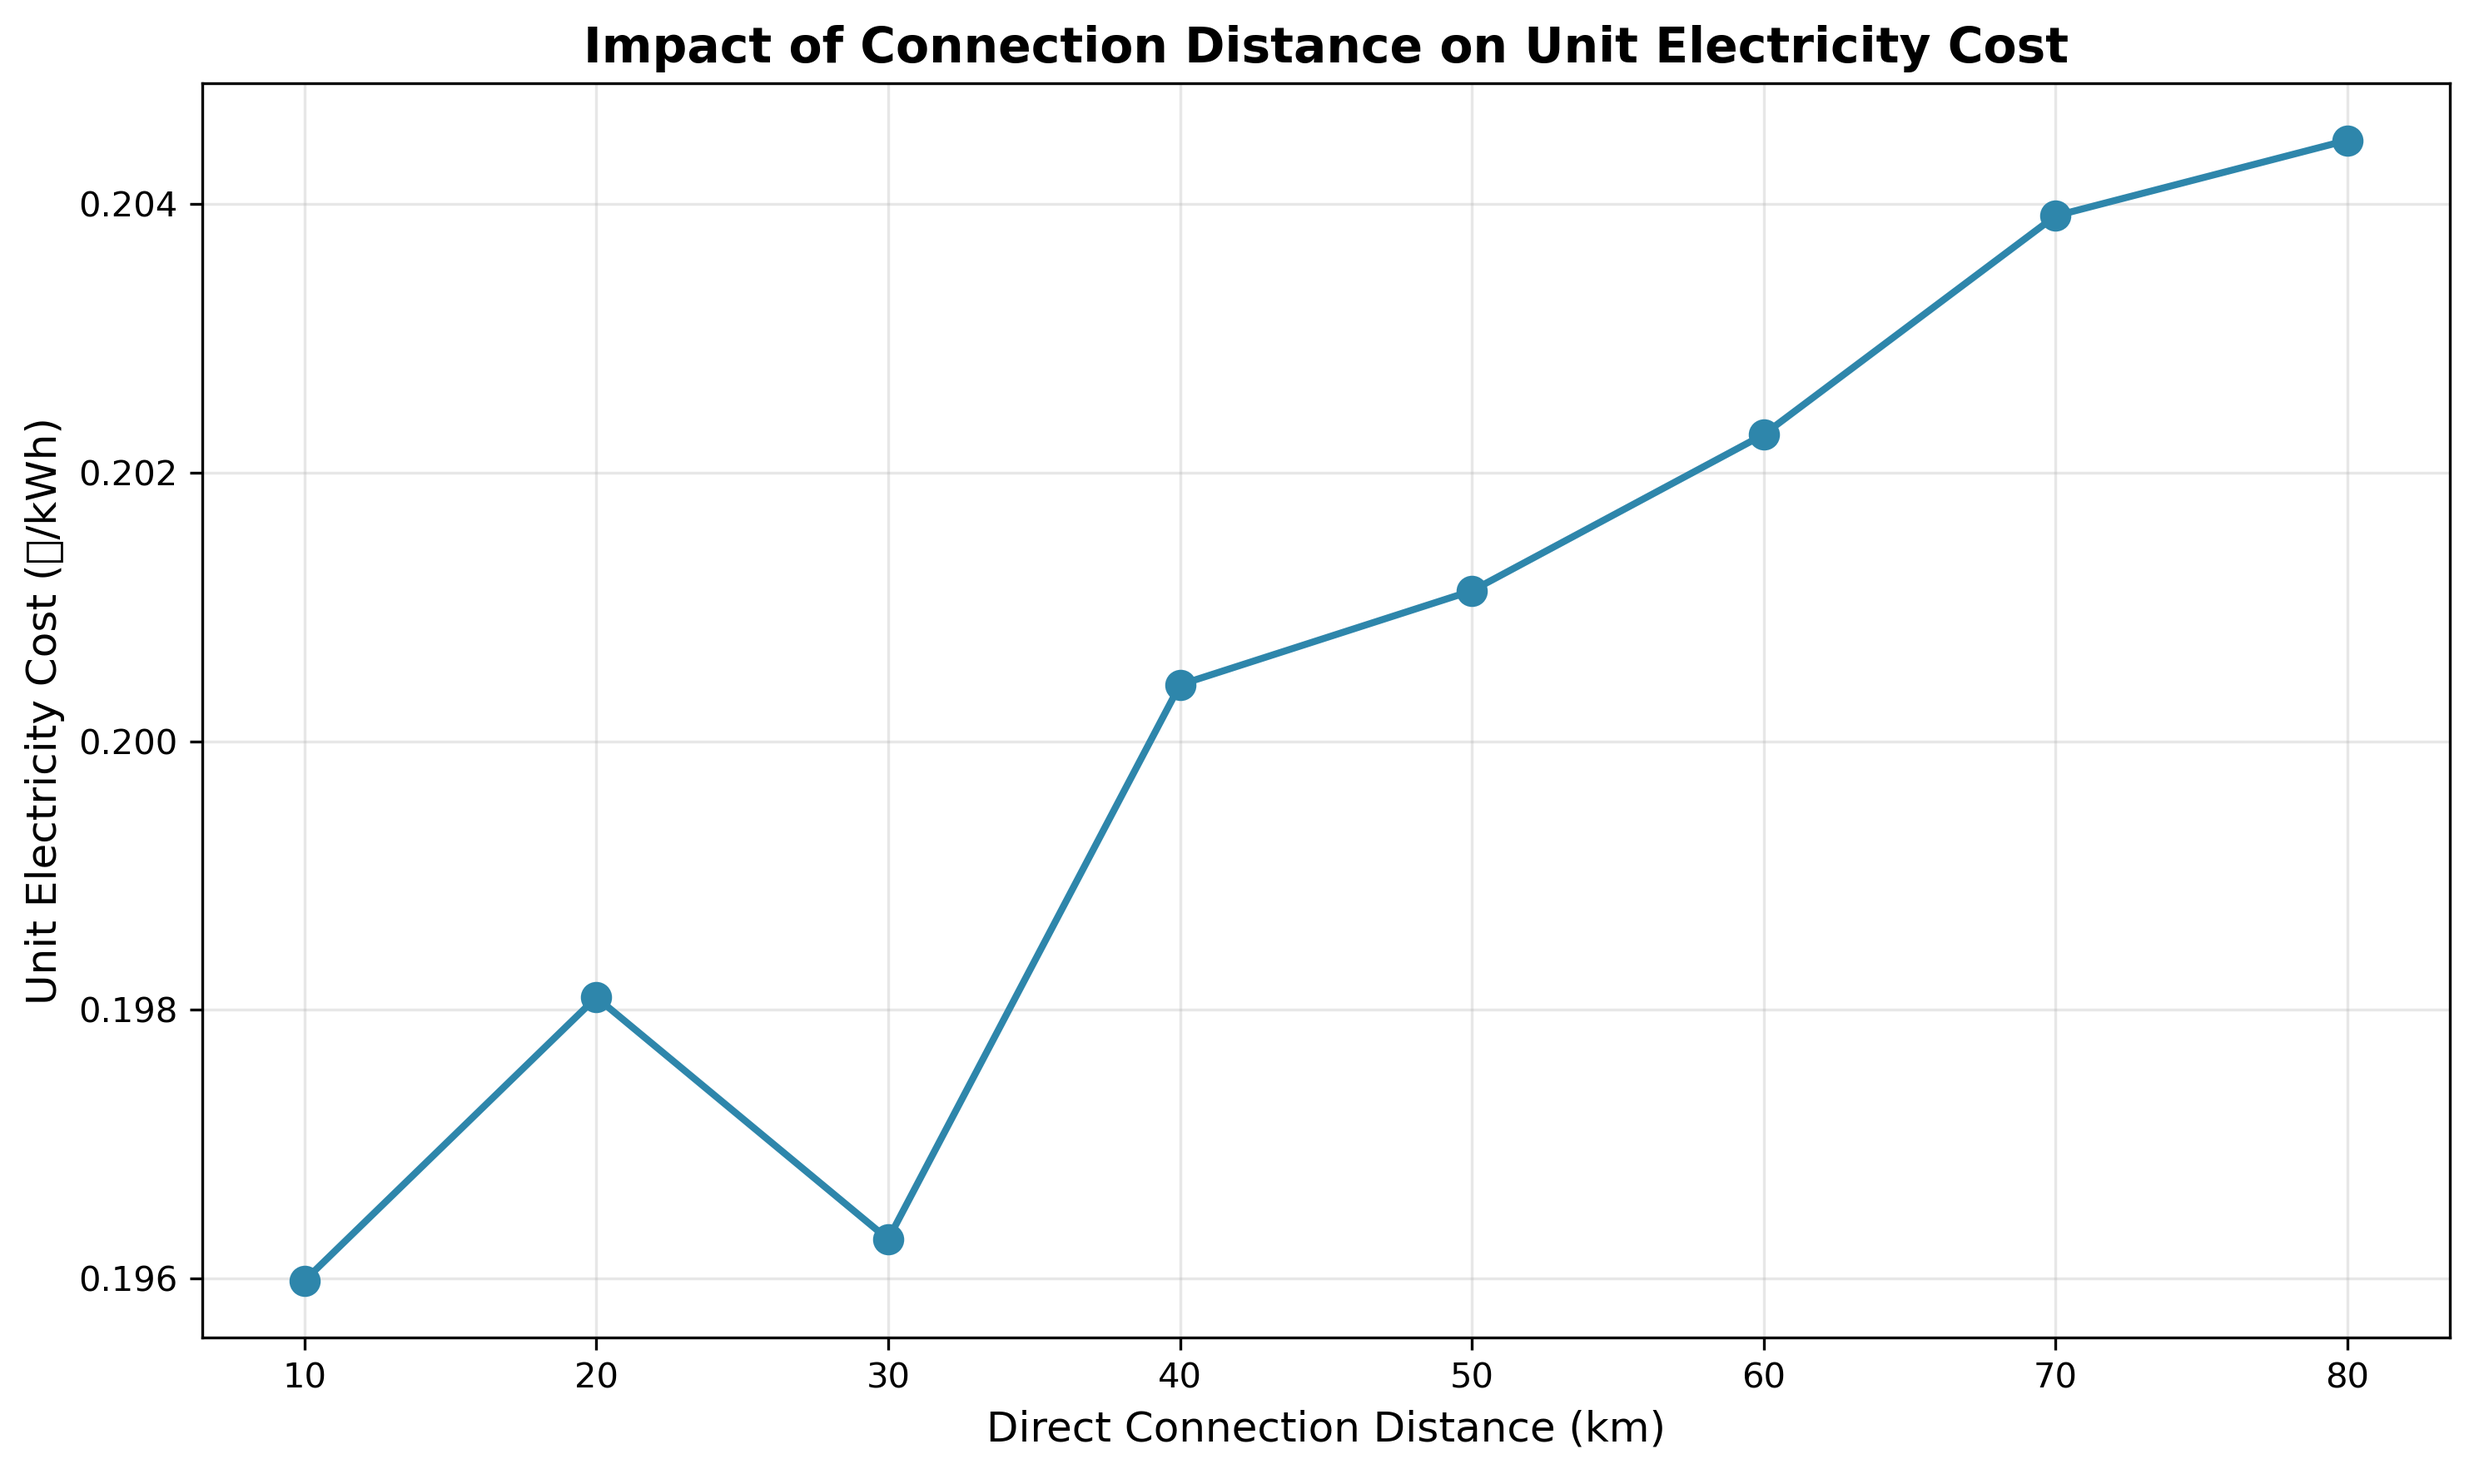
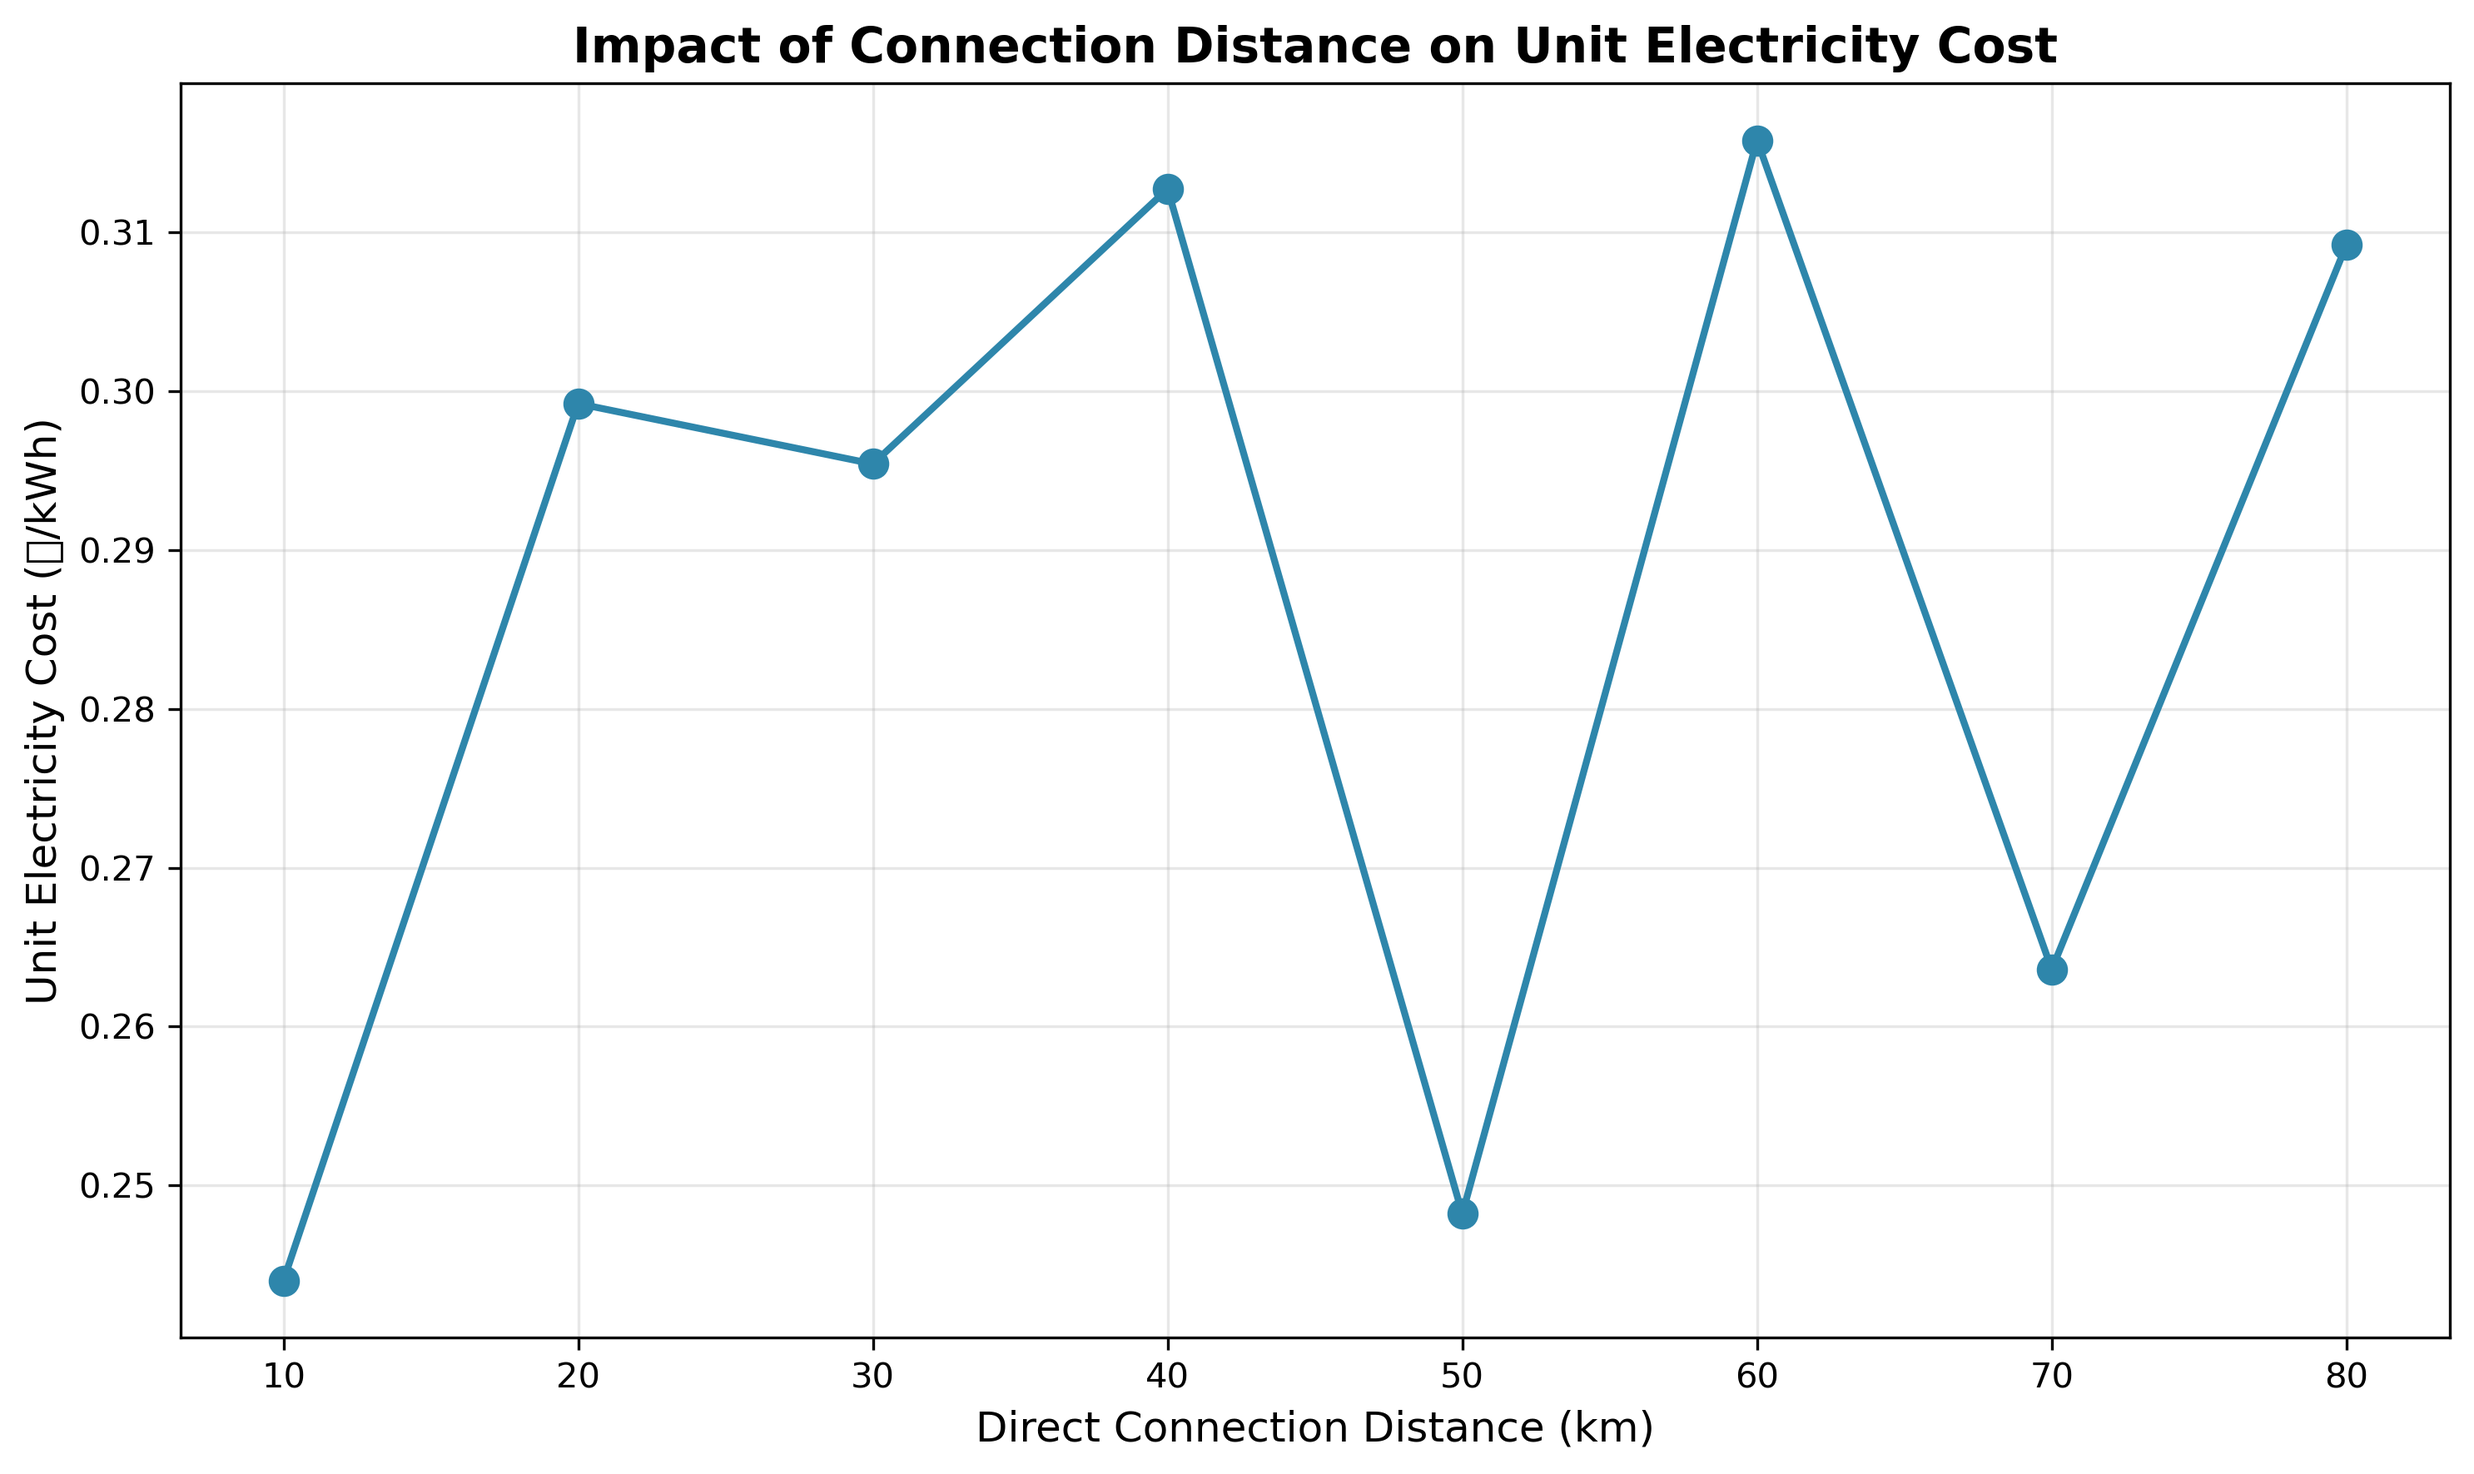
灵敏度分析

diff --git a/green_power_opt.py b/green_power_opt.py
@@ -393,7 +393,7 @@ def run_single_optimization(D=None, phi=None, theta=None):
         model = gp.Model("GreenPowerMicrogrid")
         model.setParam('OutputFlag', 0)      # Suppress output
         model.setParam('MIPGap', 0.05)       # 5% gap for faster solving
-        model.setParam('TimeLimit', 300)     # 5 min limit for sensitivity analysis
+        # model.setParam('TimeLimit', 300)     # 5 min limit for sensitivity analysis
         model.setParam('Method', 3)          # Concurrent method
         model.setParam('Heuristics', 0.5)    # More heuristics
         
